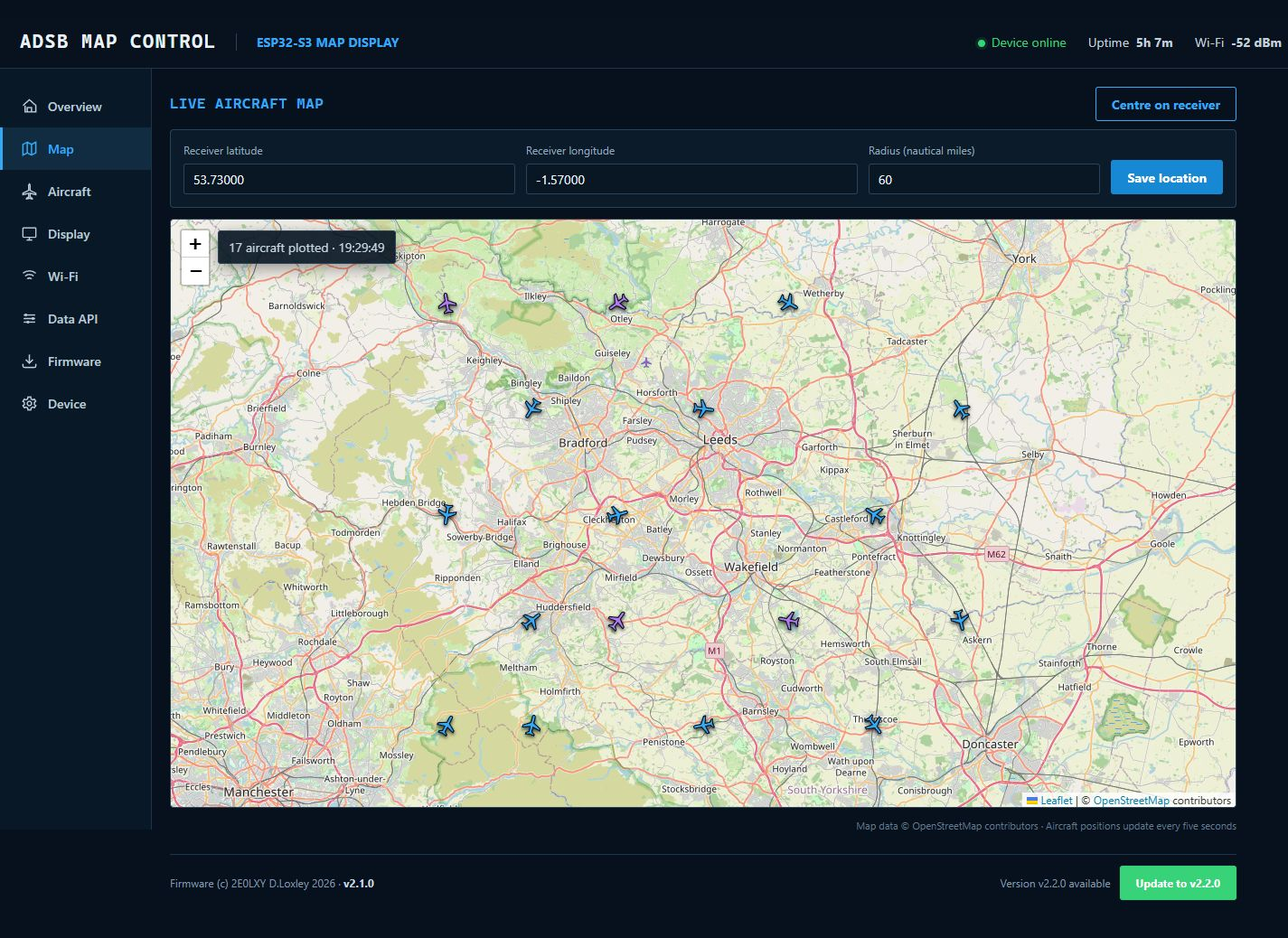
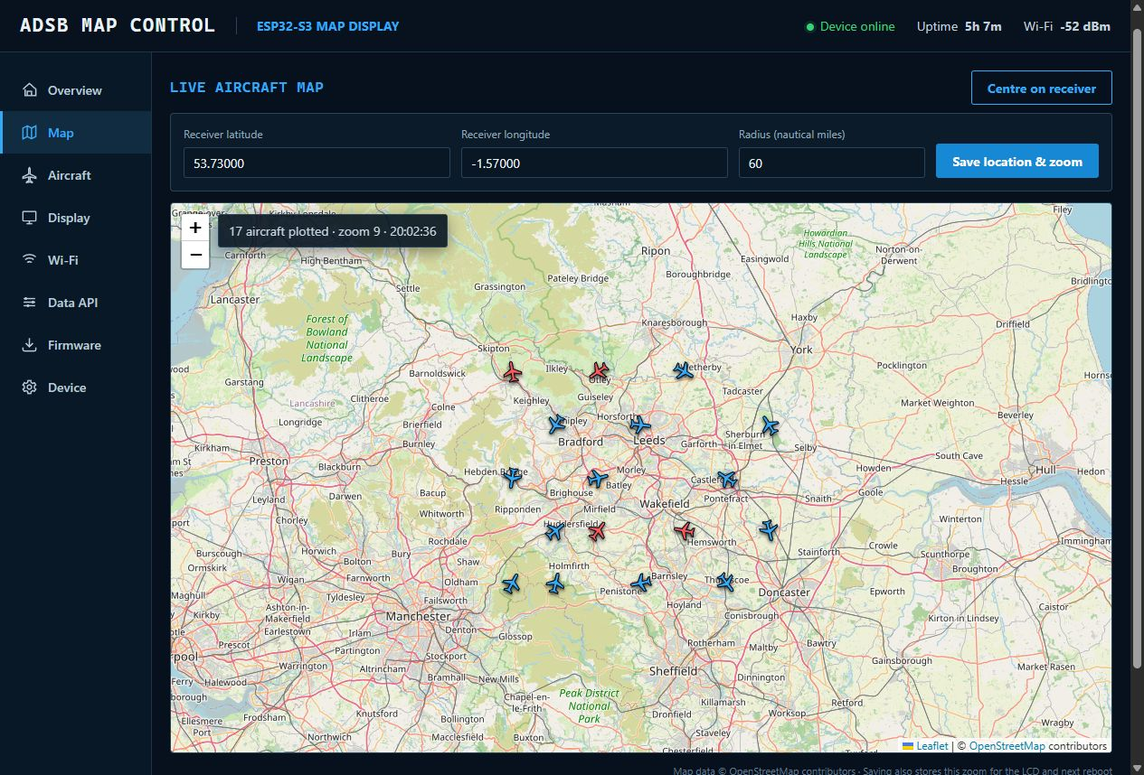
Release v2.2.0 aircraft dashboard and saved map zoom

diff --git a/src/web_ui.h b/src/web_ui.h
@@ -10,7 +10,7 @@ static const char WEB_UI[] PROGMEM = R"ADSBWEB(
 @media(max-width:720px){.top{height:auto;min-height:58px;padding:12px 14px;flex-wrap:wrap;gap:8px}.brand{font-size:17px}.model{font-size:12px;margin-left:8px;padding-left:10px}.topstats{width:100%;margin:3px 0 0;gap:15px;font-size:12px}.shell{display:block}.main{padding:14px 12px 26px}nav{position:sticky;top:0;height:auto;z-index:18;display:flex;overflow:auto;padding:0;border:0;border-bottom:1px solid var(--line2)}nav a{padding:11px 14px;border-left:0;border-bottom:3px solid transparent;white-space:nowrap;font-size:12px}nav a.active{border-bottom-color:var(--cyan);border-left:0}nav svg{display:none}.right{display:block}.right .section{margin-bottom:16px}.metrics{grid-template-columns:repeat(2,1fr)}.metric{border-bottom:1px solid var(--line2)}.metric:nth-child(even){border-right:0}.metric:last-child{border-bottom:0}.rowhead{align-items:stretch;flex-wrap:wrap}.rowhead .section-title{width:100%}.rowhead .spacer{display:none}.search{width:auto;flex:1}.controlrow{grid-template-columns:88px 1fr}.device-grid{grid-template-columns:1fr}.actions{flex-direction:column}.actions .button{width:100%}.formrow{flex-wrap:wrap}.formrow .button{width:100%}}
 </style><style>
 .grid{display:block}.left,.right{display:contents!important}.section{max-width:1180px}.section.view-hidden{display:none}.location-panel{display:grid;grid-template-columns:1fr 1fr .7fr auto;gap:12px;align-items:end;margin-bottom:12px}.location-panel label{display:grid;gap:6px}.map-panel{padding:0;overflow:hidden;position:relative}.map-canvas{height:calc(100vh - 250px);min-height:470px;background:#0a1723}.map-status{position:absolute;z-index:500;left:12px;top:12px;background:#071522e8;border:1px solid var(--line);padding:8px 11px;border-radius:3px;color:#c7d7e2;box-shadow:0 5px 18px #0006}.plane-marker{width:30px;height:30px;display:flex;align-items:center;justify-content:center;filter:drop-shadow(0 2px 2px #000b)}.plane-marker svg{width:27px;height:27px;transform:rotate(var(--heading));transform-origin:center;fill:var(--cyan);stroke:#05101a;stroke-width:1}.plane-marker.mlat svg{fill:var(--violet)}.leaflet-container{font-family:"Segoe UI",Inter,system-ui,sans-serif}.leaflet-popup-content-wrapper,.leaflet-popup-tip{background:#0b1b2a;color:var(--text)}.leaflet-popup-content{line-height:1.5}.popup-title{font:700 15px ui-monospace,"Cascadia Mono",monospace;color:var(--cyan);margin-bottom:4px}.map-fallback{height:100%;display:grid;place-items:center;text-align:center;color:var(--muted);padding:30px}.admin-footer{max-width:1180px;min-height:54px;border-top:1px solid var(--line2);display:flex;align-items:center;justify-content:space-between;gap:16px;color:#8299ab;font-size:12px;margin-top:24px;padding:12px 0}.admin-footer b{color:#c7d6e0}.update-wrap{display:flex;align-items:center;gap:10px}.update-button.available{color:#fff;background:var(--green);border-color:var(--green);animation:updatePulse 1.15s ease-in-out infinite}.update-button.installing{animation:none;opacity:.7}@keyframes updatePulse{0%,100%{box-shadow:0 0 0 0 #38d27866}50%{box-shadow:0 0 0 8px #38d27800}}@media(prefers-reduced-motion:reduce){.update-button.available{animation:none}}@media(max-width:720px){.location-panel{grid-template-columns:1fr 1fr}.location-panel .button{grid-column:1/-1}.map-canvas{height:calc(100vh - 330px);min-height:400px}.admin-footer{align-items:flex-start;flex-direction:column}.update-wrap{width:100%;justify-content:space-between}}
-.map-status{left:52px}
+.map-status{left:52px}.violet{color:var(--red)}.plane-marker.mlat svg{fill:var(--red)}.src-mlat{color:var(--red);font-weight:800}.aircraft-table{min-width:2350px}.operator-logo{display:inline-grid;place-items:center;min-width:38px;height:24px;padding:0 6px;border:1px solid currentColor;border-radius:3px;background:#07131f;font:800 11px/1 ui-monospace,"Cascadia Mono",monospace;letter-spacing:.04em}.operator-logo.mlat{color:var(--red);font-size:16px}.emergency{color:var(--red);font-weight:800}
 </style></head><body>
 <header class="top"><div class="brand">ADSB MAP CONTROL</div><div class="model">ESP32-S3 MAP DISPLAY</div><div class="topstats"><span class="online"><i class="dot"></i><span id="online">Device online</span></span><span class="optional">Uptime&nbsp; <b id="topUptime">--</b></span><span>Wi-Fi&nbsp; <b id="topRssi">--</b></span></div></header>
 <div class="shell"><nav>
@@ -25,9 +25,9 @@ static const char WEB_UI[] PROGMEM = R"ADSBWEB(
 </nav><main class="main"><div class="grid"><div class="left">
 <section id="overview" class="section"><h2 class="section-title">OVERVIEW</h2><div class="panel metrics">
 <div class="metric"><div class="label">Aircraft total</div><div class="value" id="total">--</div></div><div class="metric"><div class="label">ADS-B</div><div class="value cyan" id="adsb">--</div></div><div class="metric"><div class="label">MLAT</div><div class="value violet" id="mlat">--</div></div><div class="metric"><div class="label">OpenSky credits</div><div class="value" id="credits">--</div></div><div class="metric"><div class="label">Last refresh</div><div class="value small" id="lastRefresh">--</div></div><div class="metric"><div class="label">Wi-Fi signal</div><div class="value small" id="rssi">--</div></div><div class="metric"><div class="label">Device uptime</div><div class="value small" id="uptime">--</div></div>
-</div></section>
-<section id="mapview" class="section view-hidden"><div class="rowhead"><h2 class="section-title">LIVE AIRCRAFT MAP</h2><span class="spacer"></span><button id="mapHome" class="button">Centre on receiver</button></div><div class="panel location-panel"><label><span class="sub">Receiver latitude</span><input id="homeLatitude" class="input" type="number" min="-85" max="85" step="0.00001"></label><label><span class="sub">Receiver longitude</span><input id="homeLongitude" class="input" type="number" min="-180" max="180" step="0.00001"></label><label><span class="sub">Radius (nautical miles)</span><input id="radiusNm" class="input" type="number" min="5" max="250" step="1"></label><button id="saveLocation" class="button primary">Save location</button></div><div class="panel map-panel"><div id="mapStatus" class="map-status">Waiting for aircraft positions…</div><div id="aircraftMap" class="map-canvas"><div class="map-fallback">Loading OpenStreetMap…</div></div></div><div class="footer">Map data © OpenStreetMap contributors · Aircraft positions update every five seconds</div></section>
-<section id="aircraft" class="section view-hidden"><div class="rowhead"><h2 class="section-title">AIRCRAFT (<span id="rowCount">0</span>)</h2><span class="spacer"></span><select id="sourceFilter"><option value="all">All sources</option><option value="ADSB">ADS-B only</option><option value="MLAT">MLAT only</option></select><input id="search" class="input search" placeholder="Search ICAO or callsign"></div><div class="table-wrap"><table><thead><tr><th>ICAO</th><th>CALLSIGN</th><th>DIST (MI)</th><th>ALT (FT)</th><th>HDG</th><th>DIR</th><th>FROM → TO</th><th>SRC</th></tr></thead><tbody id="aircraftRows"><tr><td colspan="8" class="empty">Waiting for aircraft data…</td></tr></tbody></table></div></section>
+</div><div class="rowhead"><h2 class="section-title">ALL AIRCRAFT (<span id="overviewCount">0</span>)</h2><span class="spacer"></span><span class="sub">Scroll horizontally for every available field</span></div><div class="table-wrap"><table class="aircraft-table"><thead><tr><th>LOGO</th><th>OPERATOR</th><th>ICAO</th><th>CALLSIGN</th><th>REG</th><th>TYPE</th><th>DIST (MI)</th><th>LAT</th><th>LON</th><th>BARO ALT</th><th>GEO ALT</th><th>SPD (KT)</th><th>V/S (FPM)</th><th>HDG</th><th>DIR</th><th>SQUAWK</th><th>CAT</th><th>GROUND</th><th>AGE (S)</th><th>MSGS</th><th>SIGNAL</th><th>COUNTRY</th><th>FROM → TO</th><th>SRC</th><th>EMERGENCY</th></tr></thead><tbody id="overviewAircraftRows"><tr><td colspan="25" class="empty">Waiting for aircraft data…</td></tr></tbody></table></div></section>
+<section id="mapview" class="section view-hidden"><div class="rowhead"><h2 class="section-title">LIVE AIRCRAFT MAP</h2><span class="spacer"></span><button id="mapHome" class="button">Centre on receiver</button></div><div class="panel location-panel"><label><span class="sub">Receiver latitude</span><input id="homeLatitude" class="input" type="number" min="-85" max="85" step="0.00001"></label><label><span class="sub">Receiver longitude</span><input id="homeLongitude" class="input" type="number" min="-180" max="180" step="0.00001"></label><label><span class="sub">Radius (nautical miles)</span><input id="radiusNm" class="input" type="number" min="5" max="250" step="1"></label><button id="saveLocation" class="button primary">Save location &amp; zoom</button></div><div class="panel map-panel"><div id="mapStatus" class="map-status">Waiting for aircraft positions…</div><div id="aircraftMap" class="map-canvas"><div class="map-fallback">Loading OpenStreetMap…</div></div></div><div class="footer">Map data © OpenStreetMap contributors · Saving also stores this zoom for the LCD and next reboot</div></section>
+<section id="aircraft" class="section view-hidden"><div class="rowhead"><h2 class="section-title">AIRCRAFT (<span id="rowCount">0</span>)</h2><span class="spacer"></span><select id="sourceFilter"><option value="all">All sources</option><option value="ADSB">ADS-B only</option><option value="MLAT">MLAT only</option></select><input id="search" class="input search" placeholder="Search any aircraft field"></div><div class="table-wrap"><table class="aircraft-table"><thead><tr><th>LOGO</th><th>OPERATOR</th><th>ICAO</th><th>CALLSIGN</th><th>REG</th><th>TYPE</th><th>DIST (MI)</th><th>LAT</th><th>LON</th><th>BARO ALT</th><th>GEO ALT</th><th>SPD (KT)</th><th>V/S (FPM)</th><th>HDG</th><th>DIR</th><th>SQUAWK</th><th>CAT</th><th>GROUND</th><th>AGE (S)</th><th>MSGS</th><th>SIGNAL</th><th>COUNTRY</th><th>FROM → TO</th><th>SRC</th><th>EMERGENCY</th></tr></thead><tbody id="aircraftRows"><tr><td colspan="25" class="empty">Waiting for aircraft data…</td></tr></tbody></table></div></section>
 </div><div class="right">
 <section id="display" class="section"><h2 class="section-title">DISPLAY</h2><div class="panel"><div class="controlrow"><label>Page</label><div class="segments"><button id="pageMap">Map</button><button id="pageTable">Table</button></div></div><div class="controlrow"><label>Brightness</label><div class="sliderline"><input id="brightness" type="range" min="10" max="100" value="100"><span id="brightnessValue">100%</span></div></div><div class="controlrow"><label>Sound alerts</label><div class="switchline"><label class="toggle"><input id="sound" type="checkbox"><span></span></label><b id="soundValue">OFF</b></div></div><button id="refresh" class="button">↻ &nbsp;Refresh now</button></div></section>
 <section id="wifi" class="section"><h2 class="section-title">WI-FI</h2><div class="panel"><div class="statusline"><div><strong>Connected to</strong><div class="green" id="ssid">--</div><div class="sub" id="ip">--</div></div><button id="scan" class="button">Scan networks</button></div><div class="table-wrap"><table class="networks"><thead><tr><th>SSID</th><th>SIGNAL</th><th>SECURITY</th></tr></thead><tbody id="networks"><tr><td colspan="3" class="empty">Select Scan networks</td></tr></tbody></table></div><div class="formrow"><input id="wifiSsid" class="input" placeholder="Network name"><input id="wifiPassword" class="input" type="password" placeholder="Wi-Fi password"><button id="connect" class="button primary">Connect</button></div></div></section>
@@ -41,12 +41,16 @@ function toast(message,error=false){const el=$('toast');el.textContent=message;e
 function esc(value){return String(value??'').replace(/[&<>"']/g,c=>({'&':'&amp;','<':'&lt;','>':'&gt;','"':'&quot;',"'":'&#39;'}[c]))}
 async function api(url,options={}){const response=await fetch(url,{cache:'no-store',...options});const text=await response.text();let data={};try{data=JSON.parse(text)}catch{data={message:text}}if(!response.ok)throw new Error(data.message||`HTTP ${response.status}`);return data}
 function duration(seconds){seconds=Math.max(0,seconds|0);const d=Math.floor(seconds/86400),h=Math.floor(seconds%86400/3600),m=Math.floor(seconds%3600/60);return d?`${d}d ${h}h ${m}m`:`${h}h ${m}m`}
-function renderAircraft(){const q=$('search').value.trim().toUpperCase(),filter=$('sourceFilter').value;const rows=state.aircraft.filter(a=>(filter==='all'||a.source===filter)&&(!q||`${a.hex} ${a.callsign}`.includes(q)));$('rowCount').textContent=rows.length;$('aircraftRows').innerHTML=rows.length?rows.map(a=>`<tr><td>${esc(a.hex)}</td><td>${esc(a.callsign||'—')}</td><td class="amber">${Number(a.distance).toFixed(1)}</td><td>${a.altitude<0?'—':Number(a.altitude).toLocaleString()}</td><td>${Math.round(a.heading)}°</td><td>${esc(a.direction)}</td><td>${esc(a.route||'—')}</td><td class="src-${a.source.toLowerCase()}">${a.source==='ADSB'?'ADS-B':'MLAT'}</td></tr>`).join(''):'<tr><td colspan="8" class="empty">No matching aircraft</td></tr>'}
-function initMap(){if(state.map)return true;if(typeof L==='undefined'){$('aircraftMap').innerHTML='<div class="map-fallback">OpenStreetMap could not load. Check that this browser has internet access, then reload this page.</div>';return false}$('aircraftMap').innerHTML='';state.map=L.map('aircraftMap',{zoomControl:true}).setView([state.homeLat??53.73,state.homeLon??-1.57],9);L.tileLayer('https://tile.openstreetmap.org/{z}/{x}/{y}.png',{maxZoom:18,attribution:'&copy; <a href="https://www.openstreetmap.org/copyright">OpenStreetMap</a> contributors'}).addTo(state.map);state.mapLayer=L.layerGroup().addTo(state.map);return true}
+const operators={BAW:['British Airways','#2d67d4'],EZY:['easyJet','#ff6b18'],RYR:['Ryanair','#f1cf27'],EXS:['Jet2','#e5263f'],TOM:['TUI Airways','#68b9dc'],VIR:['Virgin Atlantic','#d62945'],LOG:['Loganair','#4d93c5'],KLM:['KLM','#4cb8e9'],SAS:['SAS','#7695d5'],DLH:['Lufthansa','#f5c928'],UAL:['United Airlines','#5b84e5'],QTR:['Qatar Airways','#9c4770'],PIA:['Pakistan International','#55a56f'],SWR:['Swiss','#e43e3e'],EWG:['Eurowings','#ae4eb4']};
+function operatorInfo(a){const code=(a.callsign||'').replace(/[^A-Z0-9]/gi,'').slice(0,3).toUpperCase(),known=operators[code];return{code:code||'—',name:a.operator||known?.[0]||'Unknown operator',colour:known?.[1]||'#35a9f4'}}
+function operatorLogo(a){if(a.source==='MLAT')return '<span class="operator-logo mlat" title="MLAT aircraft">✈</span>';const o=operatorInfo(a);return `<span class="operator-logo" style="color:${o.colour}" title="${esc(o.name)}">${esc(o.code)}</span>`}
+function aircraftRow(a){const o=operatorInfo(a),emergency=a.emergency&&a.emergency!=='none'?a.emergency:'—',number=(v,d=0)=>Number.isFinite(Number(v))?Number(v).toLocaleString(undefined,{minimumFractionDigits:d,maximumFractionDigits:d}):'—';return `<tr><td>${operatorLogo(a)}</td><td title="${esc(o.name)}">${esc(o.name)}</td><td>${esc(a.hex)}</td><td>${esc(a.callsign||'—')}</td><td>${esc(a.registration||'—')}</td><td>${esc(a.aircraftType||'—')}</td><td class="amber">${number(a.distance,1)}</td><td>${number(a.latitude,4)}</td><td>${number(a.longitude,4)}</td><td>${a.altitude<0?'—':number(a.altitude)}</td><td>${a.geometricAltitude<0?'—':number(a.geometricAltitude)}</td><td>${number(a.speed)}</td><td>${number(a.verticalRate)}</td><td>${number(a.heading)}°</td><td>${esc(a.direction||'—')}</td><td>${esc(a.squawk||'—')}</td><td>${esc(a.category||'—')}</td><td>${a.onGround?'YES':'NO'}</td><td>${a.age<0?'—':number(a.age,1)}</td><td>${number(a.messages)}</td><td>${Number(a.signal)>-900?number(a.signal,1)+' dB':'—'}</td><td>${esc(a.country||'—')}</td><td>${esc(a.route||'—')}</td><td class="src-${a.source.toLowerCase()}">${a.source==='ADSB'?'ADS-B':'MLAT'}</td><td class="${emergency==='—'?'':'emergency'}">${esc(emergency)}</td></tr>`}
+function renderAircraft(){const q=$('search').value.trim().toUpperCase(),filter=$('sourceFilter').value;const searchable=a=>Object.values(a).join(' ').toUpperCase();const rows=state.aircraft.filter(a=>(filter==='all'||a.source===filter)&&(!q||searchable(a).includes(q)));$('overviewCount').textContent=state.aircraft.length;$('overviewAircraftRows').innerHTML=state.aircraft.length?state.aircraft.map(aircraftRow).join(''):'<tr><td colspan="25" class="empty">No aircraft received</td></tr>';$('rowCount').textContent=rows.length;$('aircraftRows').innerHTML=rows.length?rows.map(aircraftRow).join(''):'<tr><td colspan="25" class="empty">No matching aircraft</td></tr>'}
+function initMap(){if(state.map)return true;if(typeof L==='undefined'){$('aircraftMap').innerHTML='<div class="map-fallback">OpenStreetMap could not load. Check that this browser has internet access, then reload this page.</div>';return false}$('aircraftMap').innerHTML='';state.map=L.map('aircraftMap',{zoomControl:true}).setView([state.homeLat??53.73,state.homeLon??-1.57],state.mapZoom??9);L.tileLayer('https://tile.openstreetmap.org/{z}/{x}/{y}.png',{maxZoom:18,attribution:'&copy; <a href="https://www.openstreetmap.org/copyright">OpenStreetMap</a> contributors'}).addTo(state.map);state.mapLayer=L.layerGroup().addTo(state.map);state.mapFitted=true;return true}
 function planeIcon(a){const heading=Number.isFinite(Number(a.heading))?Number(a.heading):0;return L.divIcon({className:'',iconSize:[30,30],iconAnchor:[15,15],popupAnchor:[0,-13],html:`<div class="plane-marker ${a.source==='MLAT'?'mlat':''}" style="--heading:${heading}deg"><svg viewBox="0 0 24 24" aria-hidden="true"><path d="M12 2c.8 0 1.4.7 1.4 1.5v6.1l7.3 4.2v2l-7.3-2.1v4.9l2.8 1.8v1.4L12 21l-4.2.8v-1.4l2.8-1.8v-4.9l-7.3 2.1v-2l7.3-4.2V3.5C10.6 2.7 11.2 2 12 2z"/></svg></div>`})}
-function renderMap(){if(!initMap())return;state.mapLayer.clearLayers();const positioned=state.aircraft.filter(a=>Number.isFinite(Number(a.latitude))&&Number.isFinite(Number(a.longitude)));positioned.forEach(a=>{const marker=L.marker([Number(a.latitude),Number(a.longitude)],{icon:planeIcon(a)});marker.bindTooltip(esc(a.callsign||a.hex),{direction:'top',offset:[0,-12],opacity:.9});marker.bindPopup(`<div class="popup-title">${esc(a.callsign||a.hex)}</div><b>${esc(a.source==='ADSB'?'ADS-B':'MLAT')}</b> · ${esc(a.hex)}<br>${a.altitude<0?'Altitude unavailable':Number(a.altitude).toLocaleString()+' ft'} · ${Number(a.distance).toFixed(1)} mi<br>Heading ${Math.round(Number(a.heading)||0)}° ${esc(a.direction||'')}<br>${esc(a.route||'Route unavailable')}`);marker.addTo(state.mapLayer)});$('mapStatus').textContent=`${positioned.length} aircraft plotted · ${new Date().toLocaleTimeString([], {hour:'2-digit',minute:'2-digit',second:'2-digit'})}`;if(positioned.length&&!state.mapFitted){const bounds=L.latLngBounds(positioned.map(a=>[Number(a.latitude),Number(a.longitude)]));state.map.fitBounds(bounds.pad(.12),{maxZoom:10});state.mapFitted=true}}
+function renderMap(){if(!initMap())return;state.mapLayer.clearLayers();const positioned=state.aircraft.filter(a=>Number.isFinite(Number(a.latitude))&&Number.isFinite(Number(a.longitude)));positioned.forEach(a=>{const marker=L.marker([Number(a.latitude),Number(a.longitude)],{icon:planeIcon(a)}),o=operatorInfo(a);marker.bindTooltip(esc(a.callsign||a.hex),{direction:'top',offset:[0,-12],opacity:.9});marker.bindPopup(`<div class="popup-title">${esc(a.callsign||a.hex)}</div><b>${esc(o.name)}</b> · <span class="src-${a.source.toLowerCase()}">${esc(a.source==='ADSB'?'ADS-B':'MLAT')}</span><br>${esc(a.registration||a.hex)} · ${esc(a.aircraftType||'Type unavailable')}<br>${a.altitude<0?'Altitude unavailable':Number(a.altitude).toLocaleString()+' ft'} · ${Number(a.speed||0).toFixed(0)} kt · ${Number(a.distance).toFixed(1)} mi<br>Heading ${Math.round(Number(a.heading)||0)}° ${esc(a.direction||'')}<br>${esc(a.route||'Route unavailable')}`);marker.addTo(state.mapLayer)});$('mapStatus').textContent=`${positioned.length} aircraft plotted · zoom ${state.map.getZoom()} · ${new Date().toLocaleTimeString([], {hour:'2-digit',minute:'2-digit',second:'2-digit'})}`}
 function showView(id){const target=document.getElementById(id)?id:'overview';document.querySelectorAll('.section').forEach(section=>section.classList.toggle('view-hidden',section.id!==target));document.querySelectorAll('nav a').forEach(link=>link.classList.toggle('active',link.getAttribute('href')==='#'+target));if(target==='mapview'){requestAnimationFrame(()=>{renderMap();if(state.map)state.map.invalidateSize()})}}
-function updateExtendedStatus(s){const changed=state.homeLat!==undefined&&(Number(s.latitude)!==state.homeLat||Number(s.longitude)!==state.homeLon);state.homeLat=Number(s.latitude);state.homeLon=Number(s.longitude);state.radiusNm=Number(s.radiusNm);state.updateAvailable=!!s.updateAvailable;if(document.activeElement!==$('homeLatitude'))$('homeLatitude').value=state.homeLat.toFixed(5);if(document.activeElement!==$('homeLongitude'))$('homeLongitude').value=state.homeLon.toFixed(5);if(document.activeElement!==$('radiusNm'))$('radiusNm').value=state.radiusNm;$('footerVersion').textContent='v'+s.version;$('githubUpdateStatus').textContent=s.updateStatus||'Not checked';$('githubUpdate').classList.toggle('available',state.updateAvailable);$('githubUpdate').textContent=state.updateAvailable?`Update to ${s.latestVersion}`:'Check for updates';if(changed&&state.map){state.mapFitted=false;state.map.setView([state.homeLat,state.homeLon],9)}}
+function updateExtendedStatus(s){const changed=state.homeLat!==undefined&&(Number(s.latitude)!==state.homeLat||Number(s.longitude)!==state.homeLon||Number(s.mapZoom)!==state.mapZoom);state.homeLat=Number(s.latitude);state.homeLon=Number(s.longitude);state.radiusNm=Number(s.radiusNm);state.mapZoom=Number(s.mapZoom)||9;state.updateAvailable=!!s.updateAvailable;if(document.activeElement!==$('homeLatitude'))$('homeLatitude').value=state.homeLat.toFixed(5);if(document.activeElement!==$('homeLongitude'))$('homeLongitude').value=state.homeLon.toFixed(5);if(document.activeElement!==$('radiusNm'))$('radiusNm').value=state.radiusNm;$('footerVersion').textContent='v'+s.version;$('githubUpdateStatus').textContent=s.updateStatus||'Not checked';$('githubUpdate').classList.toggle('available',state.updateAvailable);$('githubUpdate').textContent=state.updateAvailable?`Update to ${s.latestVersion}`:'Check for updates';if(changed&&state.map){state.mapFitted=true;state.map.setView([state.homeLat,state.homeLon],state.mapZoom)}}
 function updateStatus(s){$('total').textContent=s.aircraftTotal;$('adsb').textContent=s.adsb;$('mlat').textContent=s.mlat;$('credits').textContent=s.credits<0?'—':Number(s.credits).toLocaleString();$('lastRefresh').textContent=s.lastRefreshSeconds<0?'Waiting':`${s.lastRefreshSeconds}s ago`;$('rssi').textContent=s.rssi?`${s.rssi} dBm`:'—';$('topRssi').textContent=s.rssi?`${s.rssi} dBm`:'—';$('uptime').textContent=duration(s.uptimeSeconds);$('topUptime').textContent=duration(s.uptimeSeconds);$('ssid').textContent=s.ssid||'Not connected';$('ip').textContent=s.ip?`${s.ip} · ${s.hostname}.local`:'No IP address';$('fwVersion').textContent=s.version;$('fwBuild').textContent=s.build;$('fwSpace').textContent=`${(s.updateSpace/1048576).toFixed(1)} MB`;$('brightness').value=s.brightness;$('brightnessValue').textContent=s.brightness+'%';$('sound').checked=s.sound;$('soundValue').textContent=s.sound?'ON':'OFF';$('pageMap').classList.toggle('active',s.page==='map');$('pageTable').classList.toggle('active',s.page==='table');$('provider').value=s.provider;$('clientIdStored').textContent=s.hasOpenSkyClientId?'· stored':'';$('clientSecretStored').textContent=s.hasOpenSkyClientSecret?'· stored':'';$('rapidKeyStored').textContent=s.hasRapidApiKey?'· stored':'';showProvider();$('online').textContent='Device online'}
 async function poll(){try{const [status,aircraft]=await Promise.all([api('/api/status'),api('/api/aircraft')]);updateStatus(status);updateExtendedStatus(status);state.aircraft=aircraft.aircraft||[];renderAircraft();if(!$('mapview').classList.contains('view-hidden'))renderMap()}catch(e){$('online').textContent='Device unavailable';toast(e.message,true)}}
 async function post(url,body={}){return api(url,{method:'POST',headers:{'Content-Type':'application/x-www-form-urlencoded'},body:new URLSearchParams(body)})}
@@ -65,6 +69,6 @@ const fileInput=$('firmwareFile'),drop=$('drop');function chooseFile(file){state
 $('upload').onclick=()=>{if(!state.file||!confirm(`Install ${state.file.name}? The display will reboot only after the image validates.`))return;const xhr=new XMLHttpRequest(),form=new FormData();form.append('firmware',state.file,state.file.name);$('upload').disabled=true;$('progress').style.display='block';xhr.upload.onprogress=e=>{if(e.lengthComputable)$('progressBar').style.width=Math.round(e.loaded/e.total*100)+'%'};xhr.onload=()=>{let data={};try{data=JSON.parse(xhr.responseText)}catch{}if(xhr.status>=200&&xhr.status<300){$('progressBar').style.width='100%';toast(data.message||'Update accepted; device is rebooting')}else{toast(data.message||'Firmware update failed',true);$('upload').disabled=false}};xhr.onerror=()=>{toast('Upload connection failed',true);$('upload').disabled=false};xhr.open('POST','/api/firmware');xhr.send(form)};
 $('savePassword').onclick=async()=>{const password=$('newPassword').value;if(password.length<8)return toast('Password must be at least 8 characters',true);if(!confirm('Change the management password? The browser will ask you to sign in again.'))return;try{await post('/api/password',{password});toast('Password changed; sign in again on the next request');$('newPassword').value=''}catch(e){toast(e.message,true)}};
 $('portal').onclick=()=>{if(confirm('Restart into the ADSBMAP setup portal for up to 15 minutes?'))post('/api/portal').then(()=>toast('Setup portal requested')).catch(e=>toast(e.message,true))};$('reboot').onclick=()=>{if(confirm('Reboot the ADS-B display now?'))post('/api/reboot').then(()=>toast('Device is rebooting')).catch(e=>toast(e.message,true))};
-$('saveLocation').onclick=async()=>{const latitude=Number($('homeLatitude').value),longitude=Number($('homeLongitude').value),radius=Number($('radiusNm').value);if(!Number.isFinite(latitude)||latitude < -85||latitude > 85||!Number.isFinite(longitude)||longitude < -180||longitude > 180||!Number.isInteger(radius)||radius < 5||radius > 250)return toast('Use latitude -85 to 85, longitude -180 to 180, and radius 5 to 250 nm',true);try{await post('/api/location',{latitude:latitude.toFixed(5),longitude:longitude.toFixed(5),radius});state.homeLat=latitude;state.homeLon=longitude;state.radiusNm=radius;state.mapFitted=false;if(state.map)state.map.setView([latitude,longitude],9);toast('Location saved; screen map and aircraft feed are rebuilding');setTimeout(poll,1000)}catch(e){toast(e.message,true)}};$('mapHome').onclick=()=>{if(initMap()){state.mapFitted=true;state.map.setView([state.homeLat??53.73,state.homeLon??-1.57],9)}};$('githubUpdate').onclick=async()=>{try{if(state.updateAvailable){if(!confirm('Download and install the latest GitHub firmware? Do not remove power while it installs.'))return;$('githubUpdate').classList.add('installing');$('githubUpdate').textContent='Starting update…';await post('/api/update/github');toast('Firmware download started; the display will reboot after validation')}else{await post('/api/update/check');$('githubUpdateStatus').textContent='Checking GitHub…';setTimeout(poll,1800)}}catch(e){toast(e.message,true)}};document.querySelectorAll('nav a').forEach(a=>a.onclick=()=>showView(a.getAttribute('href').slice(1)));window.addEventListener('hashchange',()=>showView(location.hash.slice(1)));showView(location.hash.slice(1)||'overview');poll();setInterval(poll,5000);
+$('saveLocation').onclick=async()=>{const latitude=Number($('homeLatitude').value),longitude=Number($('homeLongitude').value),radius=Number($('radiusNm').value),zoom=state.map?state.map.getZoom():(state.mapZoom||9);if(!Number.isFinite(latitude)||latitude < -85||latitude > 85||!Number.isFinite(longitude)||longitude < -180||longitude > 180||!Number.isInteger(radius)||radius < 5||radius > 250)return toast('Use latitude -85 to 85, longitude -180 to 180, and radius 5 to 250 nm',true);try{await post('/api/location',{latitude:latitude.toFixed(5),longitude:longitude.toFixed(5),radius,zoom});state.homeLat=latitude;state.homeLon=longitude;state.radiusNm=radius;state.mapZoom=zoom;state.mapFitted=true;if(state.map)state.map.setView([latitude,longitude],zoom);toast(`Location and zoom ${zoom} saved; LCD map and aircraft feed are rebuilding`);setTimeout(poll,1000)}catch(e){toast(e.message,true)}};$('mapHome').onclick=()=>{if(initMap()){state.mapFitted=true;state.map.setView([state.homeLat??53.73,state.homeLon??-1.57],state.mapZoom||9)}};$('githubUpdate').onclick=async()=>{try{if(state.updateAvailable){if(!confirm('Download and install the latest GitHub firmware? Do not remove power while it installs.'))return;$('githubUpdate').classList.add('installing');$('githubUpdate').textContent='Starting update…';await post('/api/update/github');toast('Firmware download started; the display will reboot after validation')}else{await post('/api/update/check');$('githubUpdateStatus').textContent='Checking GitHub…';setTimeout(poll,1800)}}catch(e){toast(e.message,true)}};document.querySelectorAll('nav a').forEach(a=>a.onclick=()=>showView(a.getAttribute('href').slice(1)));window.addEventListener('hashchange',()=>showView(location.hash.slice(1)));showView(location.hash.slice(1)||'overview');poll();setInterval(poll,5000);
 </script></body></html>
 )ADSBWEB";

diff --git a/src/main.cpp b/src/main.cpp
@@ -48,7 +48,7 @@ constexpr int MAX_AIRCRAFT = 80;
 constexpr int ROUTE_CACHE_SIZE = 48;
 constexpr int MAX_ROUTE_LOOKUPS_PER_REFRESH = 4;
 constexpr uint32_t ROUTE_CACHE_MS = 6UL * 60UL * 60UL * 1000UL;
-constexpr char FIRMWARE_VERSION[] = "2.1.1";
+constexpr char FIRMWARE_VERSION[] = "2.2.0";
 constexpr char DEVICE_HOSTNAME[] = "adsb-map";
 constexpr char WEB_USERNAME[] = "admin";
 constexpr char GITHUB_OWNER[] = "2E0LXY";
@@ -75,8 +75,22 @@ struct AircraftDisplay {
   int positionSource;
   float distanceMiles;
   int altitudeFt;
+  int geometricAltitudeFt;
+  float speedKnots;
+  float verticalRateFpm;
+  float ageSeconds;
+  float signalDb;
+  uint32_t messages;
+  bool onGround;
   char flight[9];
   char hex[8];
+  char registration[12];
+  char aircraftType[12];
+  char squawk[8];
+  char category[8];
+  char operatorName[36];
+  char country[28];
+  char emergency[16];
 };
 
 uint16_t *framebuffer = nullptr;
@@ -381,7 +395,6 @@ void drawLocationFallback() {
 
 bool refreshPhysicalBaseMap() {
   if (!framebuffer || !baseMap) return false;
-  physicalMapZoom = zoomForRadius();
   drawLocationFallback();
   const double centerX = osmWorldX(homeLongitude, physicalMapZoom);
   const double centerY = osmWorldY(homeLatitude, physicalMapZoom);
@@ -628,7 +641,7 @@ void status(const char *label, uint16_t colour) {
 
 void present() { gfx->draw16bitRGBBitmap(0,0,framebuffer,W,H); }
 
-void renderBootScreen(const String &networkLine = "") {
+void renderBootScreen(const String &networkLine = "", uint16_t networkColour = RGB565_CYAN) {
   gfx->draw16bitRGBBitmap(0, 0, const_cast<uint16_t *>(BOOT_IMAGE), W, H);
   gfx->setTextWrap(false);
   gfx->setTextSize(2);
@@ -637,7 +650,7 @@ void renderBootScreen(const String &networkLine = "") {
   gfx->setCursor(max(4, (W - static_cast<int>(credit.length()) * 12) / 2), 414);
   gfx->print(credit);
   if (networkLine.length()) {
-    gfx->setTextColor(rgb(53,169,244));
+    gfx->setTextColor(networkColour);
     const int width = networkLine.length() * 12;
     gfx->setCursor(max(8, (W - width) / 2), 448);
     gfx->print(networkLine);
@@ -785,6 +798,11 @@ void fetchAdsbV2Aircraft() {
     const float latitude = aircraft["lat"].as<float>();
     const float longitude = aircraft["lon"].as<float>();
     AircraftDisplay &display = latestAircraft[lastCount];
+    display = AircraftDisplay{};
+    display.altitudeFt = -1;
+    display.geometricAltitudeFt = -1;
+    display.ageSeconds = -1;
+    display.signalDb = -999;
     mapPoint(latitude, longitude, display.x, display.y);
     display.latitude = latitude;
     display.longitude = longitude;
@@ -796,12 +814,26 @@ void fetchAdsbV2Aircraft() {
     JsonVariant altitude = aircraft["alt_baro"];
     if (altitude.is<int>() || altitude.is<float>() || altitude.is<double>()) display.altitudeFt = lroundf(altitude.as<float>());
     else if (!aircraft["alt_geom"].isNull()) display.altitudeFt = lroundf(aircraft["alt_geom"].as<float>());
-    else display.altitudeFt = -1;
+    if (!aircraft["alt_geom"].isNull()) display.geometricAltitudeFt = lroundf(aircraft["alt_geom"].as<float>());
+    display.onGround = altitude.is<const char *>() && !strcmp(altitude.as<const char *>(), "ground");
+    display.speedKnots = aircraft["gs"] | 0.0f;
+    if (!aircraft["baro_rate"].isNull()) display.verticalRateFpm = aircraft["baro_rate"].as<float>();
+    else display.verticalRateFpm = aircraft["geom_rate"] | 0.0f;
+    display.ageSeconds = aircraft["seen"] | -1.0f;
+    display.signalDb = aircraft["rssi"] | -999.0f;
+    display.messages = aircraft["messages"] | 0U;
     const char *flight = aircraft["flight"] | "";
     const char *hex = aircraft["hex"] | "???";
     normalizeCallsign(flight, display.flight);
     strncpy(display.hex, hex, sizeof(display.hex) - 1);
     display.hex[sizeof(display.hex) - 1] = 0;
+    strncpy(display.registration, aircraft["r"] | "", sizeof(display.registration) - 1);
+    strncpy(display.aircraftType, aircraft["t"] | "", sizeof(display.aircraftType) - 1);
+    strncpy(display.squawk, aircraft["squawk"] | "", sizeof(display.squawk) - 1);
+    strncpy(display.category, aircraft["category"] | "", sizeof(display.category) - 1);
+    strncpy(display.operatorName, aircraft["ownOp"] | "", sizeof(display.operatorName) - 1);
+    strncpy(display.country, aircraft["cou"] | "", sizeof(display.country) - 1);
+    strncpy(display.emergency, aircraft["emergency"] | "none", sizeof(display.emergency) - 1);
     JsonArray mlatFields = aircraft["mlat"].as<JsonArray>();
     display.positionSource = !mlatFields.isNull() && mlatFields.size() ? 2 : 0;
     ++lastCount;
@@ -885,6 +917,11 @@ void fetchAircraft(bool retriedAuth = false) {
     const float latitude = state[6].as<float>();
     const float longitude = state[5].as<float>();
     AircraftDisplay &display = latestAircraft[lastCount];
+    display = AircraftDisplay{};
+    display.altitudeFt = -1;
+    display.geometricAltitudeFt = -1;
+    display.ageSeconds = -1;
+    display.signalDb = -999;
     mapPoint(latitude,longitude,display.x,display.y);
     display.latitude = latitude;
     display.longitude = longitude;
@@ -893,12 +930,25 @@ void fetchAircraft(bool retriedAuth = false) {
     if (lroundf(display.distanceMiles) == 0) aircraftAtZeroMiles = true;
     if (!state[7].isNull()) display.altitudeFt=lroundf(state[7].as<float>() * 3.28084f);
     else if (!state[13].isNull()) display.altitudeFt=lroundf(state[13].as<float>() * 3.28084f);
-    else display.altitudeFt=-1;
+    if (!state[13].isNull()) display.geometricAltitudeFt=lroundf(state[13].as<float>() * 3.28084f);
+    display.onGround = state[8] | false;
+    display.speedKnots = state[9].isNull() ? 0.0f : state[9].as<float>() * 1.943844f;
+    display.verticalRateFpm = state[11].isNull() ? 0.0f : state[11].as<float>() * 196.8504f;
+    const uint64_t serverTime = doc["time"] | 0ULL;
+    const uint64_t lastContact = state[4] | 0ULL;
+    if (serverTime && lastContact) display.ageSeconds = max(0.0, static_cast<double>(serverTime) - static_cast<double>(lastContact));
     const char *flight=state[1] | ""; const char *hex=state[0] | "???";
     display.positionSource=state[16] | -1;
     normalizeCallsign(flight, display.flight);
     strncpy(display.hex, hex, sizeof(display.hex)-1);
     display.hex[sizeof(display.hex)-1] = 0;
+    strncpy(display.country, state[2] | "", sizeof(display.country) - 1);
+    if (!state[14].isNull()) {
+      const char *squawk = state[14] | "";
+      strncpy(display.squawk, squawk, sizeof(display.squawk) - 1);
+    }
+    if (!state[17].isNull()) snprintf(display.category, sizeof(display.category), "C%d", state[17].as<int>());
+    strcpy(display.emergency, "none");
     ++lastCount;
   }
   for (int i=1; i<lastCount; ++i) {
@@ -1136,9 +1186,23 @@ void handleAircraftApi() {
     item["longitude"] = display.longitude;
     item["distance"] = roundf(display.distanceMiles * 10.0f) / 10.0f;
     item["altitude"] = display.altitudeFt;
+    item["geometricAltitude"] = display.geometricAltitudeFt;
+    item["speed"] = roundf(display.speedKnots * 10.0f) / 10.0f;
+    item["verticalRate"] = lroundf(display.verticalRateFpm);
     item["heading"] = roundf(display.track * 10.0f) / 10.0f;
     item["direction"] = compassDirection(display.track);
     item["source"] = display.positionSource == 2 ? "MLAT" : "ADSB";
+    item["registration"] = display.registration;
+    item["aircraftType"] = display.aircraftType;
+    item["squawk"] = display.squawk;
+    item["category"] = display.category;
+    item["operator"] = display.operatorName;
+    item["country"] = display.country;
+    item["emergency"] = display.emergency;
+    item["onGround"] = display.onGround;
+    item["age"] = display.ageSeconds < 0 ? -1 : roundf(display.ageSeconds * 10.0f) / 10.0f;
+    item["messages"] = display.messages;
+    item["signal"] = display.signalDb;
     RouteCacheEntry *route = cachedRoute(display.flight);
     if (route && route->hasRoute) item["route"] = String(route->origin) + ">" + route->destination;
     else item["route"] = "";
@@ -1245,10 +1309,12 @@ void handleLocationSettings() {
   homeLatitude = latitude;
   homeLongitude = longitude;
   queryRadiusNm = radius;
-  physicalMapZoom = zoomForRadius();
+  const int requestedZoom = webServer.hasArg("zoom") ? webServer.arg("zoom").toInt() : zoomForRadius();
+  physicalMapZoom = constrain(requestedZoom, 3, 16);
   settingsStore.putFloat("home-lat", homeLatitude);
   settingsStore.putFloat("home-lon", homeLongitude);
   settingsStore.putUShort("radius-nm", queryRadiusNm);
+  settingsStore.putUChar("map-zoom", physicalMapZoom);
   physicalMapReady = false;
   physicalMapRefreshPending = true;
   nextFetchAt = 0;
@@ -1440,7 +1506,7 @@ void setup() {
   queryRadiusNm = constrain(settingsStore.getUShort("radius-nm", DEFAULT_RADIUS_NM), 5, 250);
   if (!isfinite(homeLatitude) || homeLatitude < -85.0f || homeLatitude > 85.0f) homeLatitude = DEFAULT_HOME_LAT;
   if (!isfinite(homeLongitude) || homeLongitude < -180.0f || homeLongitude > 180.0f) homeLongitude = DEFAULT_HOME_LON;
-  physicalMapZoom = zoomForRadius();
+  physicalMapZoom = constrain(settingsStore.getUChar("map-zoom", zoomForRadius()), 3, 16);
   soundAlerts = settingsStore.getBool("sound", true);
   brightnessPercent = settingsStore.getUChar("brightness", 100);
   brightnessPercent = constrain(brightnessPercent, 10, 100);
@@ -1484,12 +1550,17 @@ void setup() {
   WiFiManager wm;
   wm.setWiFiAPChannel(6);
   wm.setConfigPortalTimeout(900);
-  renderBootScreen("Setup: ADSBMAP at 192.168.4.1");
+  wm.setAPCallback([](WiFiManager *) {
+    renderBootScreen("AP access: 192.168.4.1", rgb(245, 180, 35));
+  });
+  renderBootScreen("Wi-Fi connecting - please wait", rgb(53,169,244));
   if (!wm.autoConnect("ADSBMAP", "aircraft")) {
+    renderBootScreen("Wi-Fi failed - setup required", rgb(255,65,65));
+    delay(5000);
     restoreMap(); status("WIFI",rgb(245,30,35)); present();
   }
   if (WiFi.status() == WL_CONNECTED) {
-    renderBootScreen("Web: " + WiFi.localIP().toString());
+    renderBootScreen("Wi-Fi connected: " + WiFi.localIP().toString(), rgb(55,215,110));
     delay(5000);
     refreshPhysicalBaseMap();
     restoreMap();

diff --git a/README.md b/README.md
@@ -2,7 +2,7 @@
 
 Firmware for the **Waveshare ESP32-S3 Touch-LCD-4 Rev 4.0, 480 × 480, non-touch panel**. It retrieves nearby ADS-B and MLAT aircraft, plots them on an OpenStreetMap base map on the LCD, and provides a password-protected web administration interface on the local network.
 
-Current firmware: **v2.1.1**
+Current firmware: **v2.2.0**
 
 ![Boot screen](assets/boot-screen-preview.png)
 
@@ -13,6 +13,8 @@ Current firmware: **v2.1.1**
 - ADS-B and MLAT aircraft shown with distinct colours and heading markers
 - Receiver latitude, longitude, and radius configurable from the web interface
 - Receiver changes applied to the browser map, LCD map, API query area, and distance calculations
+- Browser zoom saved to NVS and reused by the physical LCD map after reboot
+- Full Overview aircraft table with operator badges and all common provider fields
 - Selectable aircraft-data providers with editable API credentials
 - Wi-Fi network scanning and connection management
 - Local firmware upload plus automatic update checks from GitHub Releases
@@ -39,19 +41,19 @@ Each sidebar entry opens a separate page. The footer on every page shows `Firmwa
 
 ### Overview
 
-Connection, aircraft, provider, display, and firmware status at a glance.
+Connection, aircraft, provider, display, and firmware status at a glance, followed by the complete horizontally scrollable live-aircraft table.
 
 ![Overview page](docs/screenshots/overview.png)
 
 ### Map
 
-Live OpenStreetMap view of the received aircraft. Save a new receiver position or radius here; the same values immediately control the LCD map, provider query bounds, and aircraft-distance calculations.
+Live OpenStreetMap view of the received aircraft. Save a new receiver position, radius, and current browser zoom here; the same values immediately control the LCD map, provider query bounds, and aircraft-distance calculations and remain stored after reboot.
 
 ![Map page](docs/screenshots/map.png)
 
 ### Aircraft
 
-Searchable live table containing ICAO address, callsign, registration, altitude, speed, heading, coordinates, source, distance, and data age.
+Searchable live table containing operator badge/name, ICAO address, callsign, registration, aircraft type, distance, coordinates, barometric/geometric altitude, speed, vertical rate, heading, squawk, category, ground state, data age, messages, signal, country, route, source, and emergency state.
 
 ![Aircraft page](docs/screenshots/aircraft.png)
 
